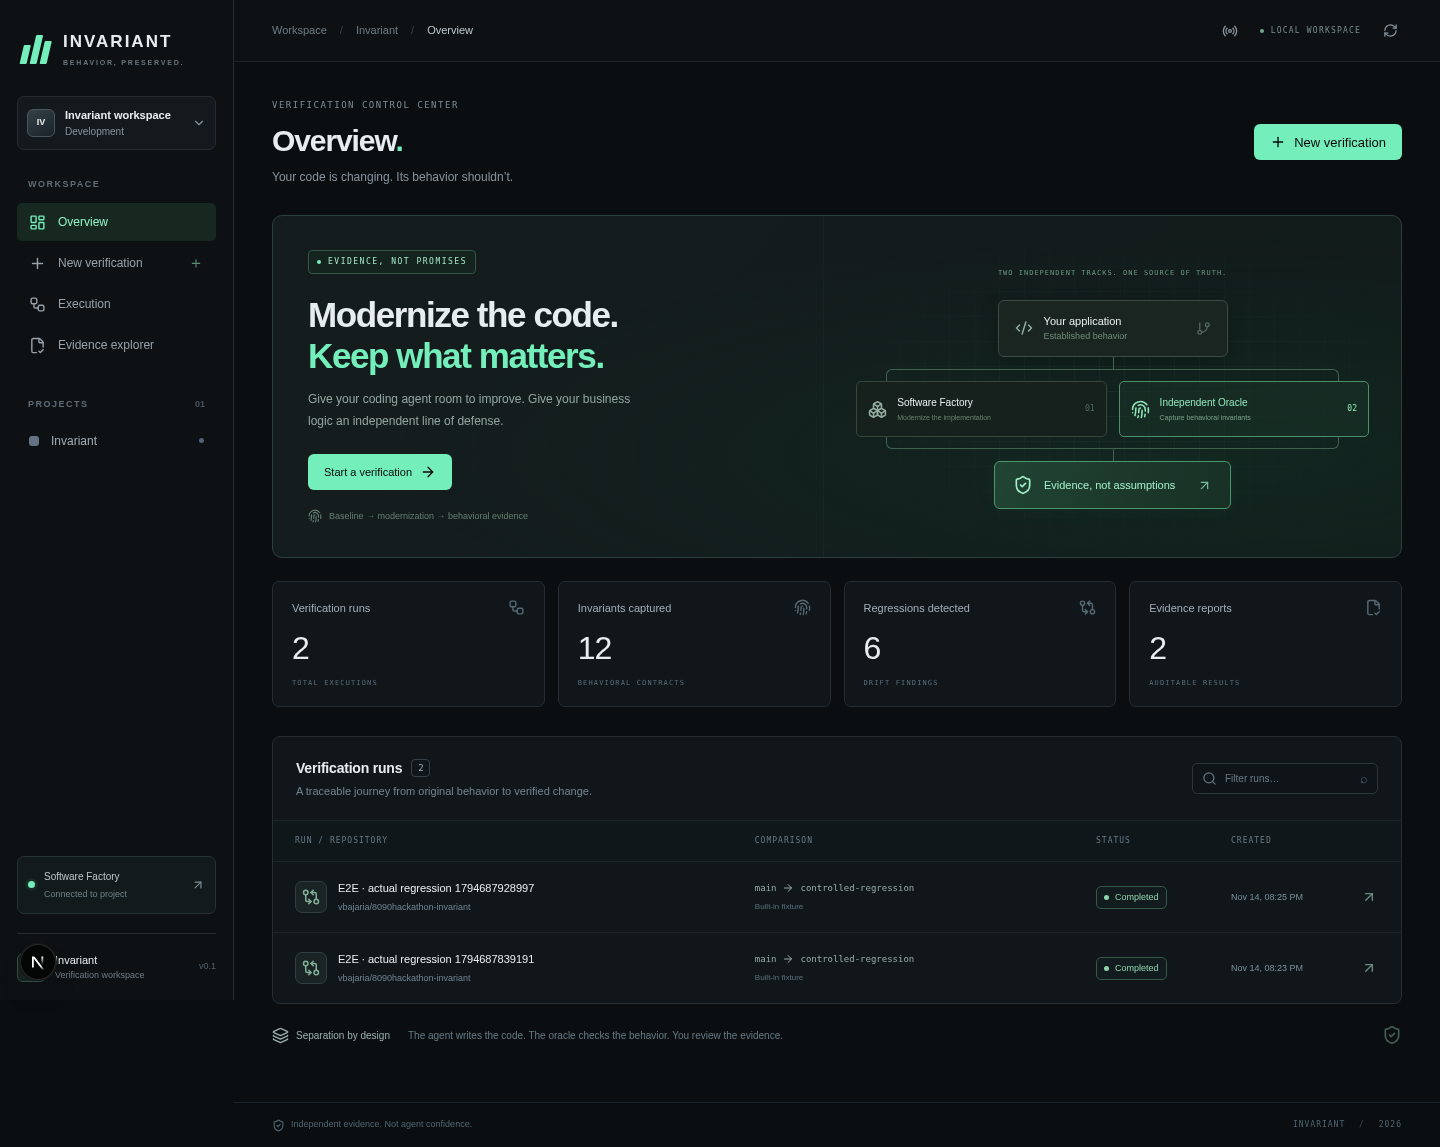
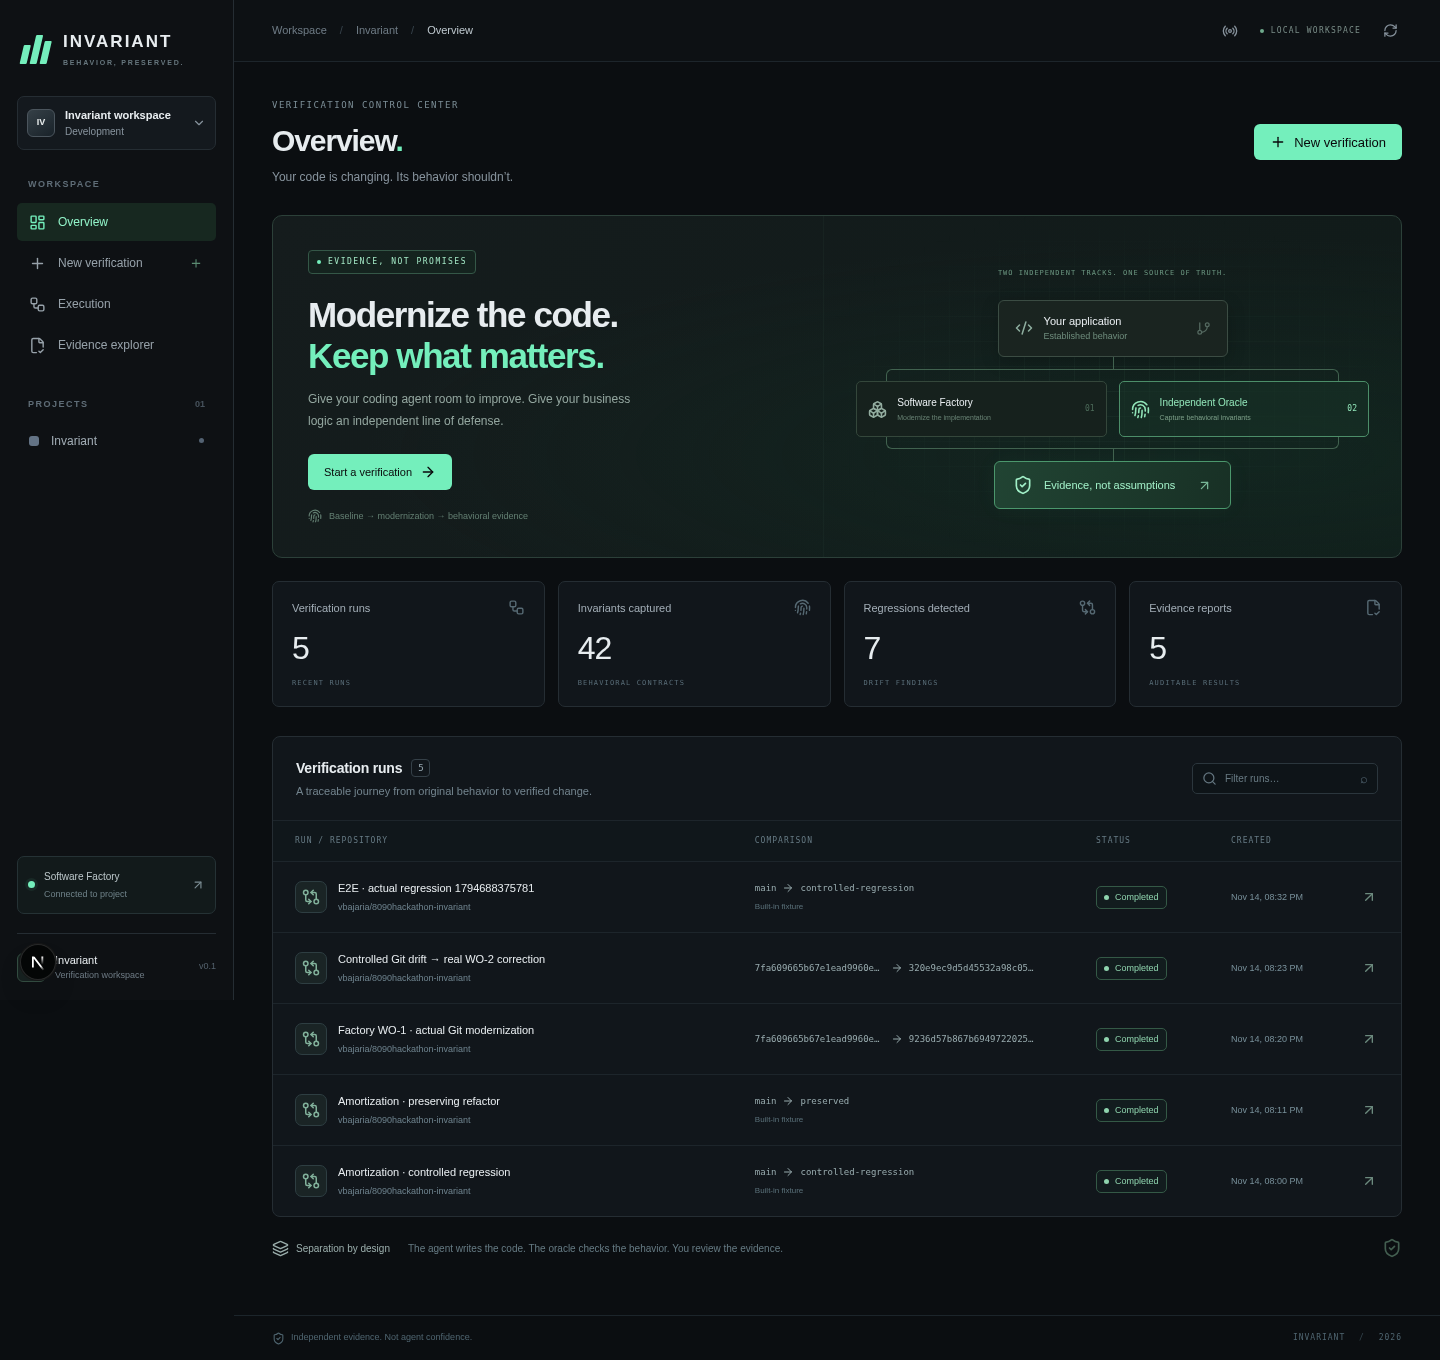
chore: add continuous verification and clean generated workspace state

diff --git a/docs/DECISIONS.md b/docs/DECISIONS.md
@@ -27,3 +27,9 @@
 - Record exact Python/pytest/Hypothesis versions, pin oracle dependencies, hash verification-engine files and loaded Python dependencies, and provide checkout-based replay commands in Markdown reports.
 - Keep deployment to one long-running Node process with local Python and SQLite. Do not claim stateless/serverless support or hostile-code sandboxing. Provide optional HTTP Basic authentication for shared deployments; require HTTPS and a configured password outside the private development workspace.
 - Use real API/browser/oracle tests. Keep React Flow's attribution, avoid formal-proof marketing, and retain explicit finite-scope limitations.
+
+## 2026-11-14 — Rebuild and release checks
+- Fresh workspace rebuild successfully installed the pinned dependencies and started the declared Next dev terminal. Ignored runtime data and credential files do not survive a clean rebuild: restored the credential-free evidence backup from Knowledge Base and recreated the server-only key file with mode 0600. No credential was uploaded with evidence. Production deployments must use persistent storage and securely provision environment variables.
+- Ignore Next's generated `next-env.d.ts`, which differs between dev/build modes; run `next typegen` before type-checking so clean clones are supported.
+- Add CI that runs API/security/orchestration, adversarial oracle, production build and real browser tests without external credentials or work-order mutations.
+- Post-rebuild browser inspection confirmed restored real reports and authenticated API connectivity. Browser-extension recorder failures are platform diagnostics, not app errors; fixed the app's missing favicon. Real Playwright tests independently check browser page errors and report behavior.
